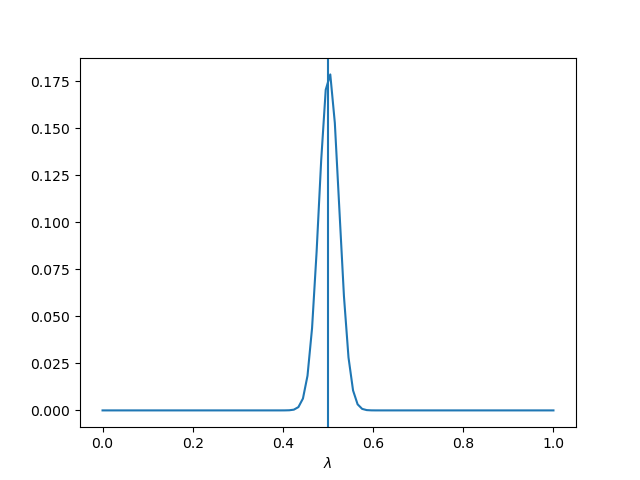
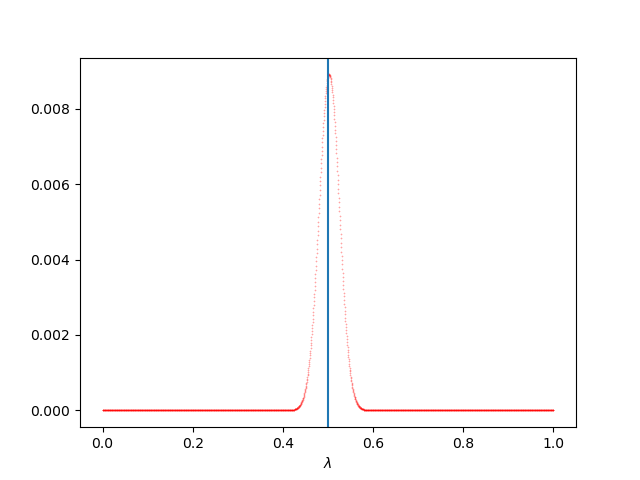
Adding small changes to how plots are made

diff --git a/marginalisation.py b/marginalisation.py
@@ -46,8 +46,7 @@ if 'N' in continueq.upper():
     raise Exception("You did not wish to continue.")
 # We then do the mixture
 # p(\lambda|E_m, S, B) = prod( \lambda*p(E_m|S) + (1-\lambda)*p(E_m|B))*prior(\lambda)
-lambdalist = np.linspace(0,1,100)
-
+lambdalist = np.linspace(0,1,2000)
 
 
 print(marglist_signal.shape)
@@ -67,7 +66,7 @@ print(normalisedposterior.max())
 
 
 plt.figure()
-plt.plot(lambdalist, normalisedposterior)
+plt.plot(lambdalist, normalisedposterior, c="r", marker="s", linestyle="None", markersize=0.1)
 plt.axvline(0.5)
 plt.xlabel(r"$\lambda$")
 plt.savefig(f"{timestring}_posterior_lambda_slice.png")
